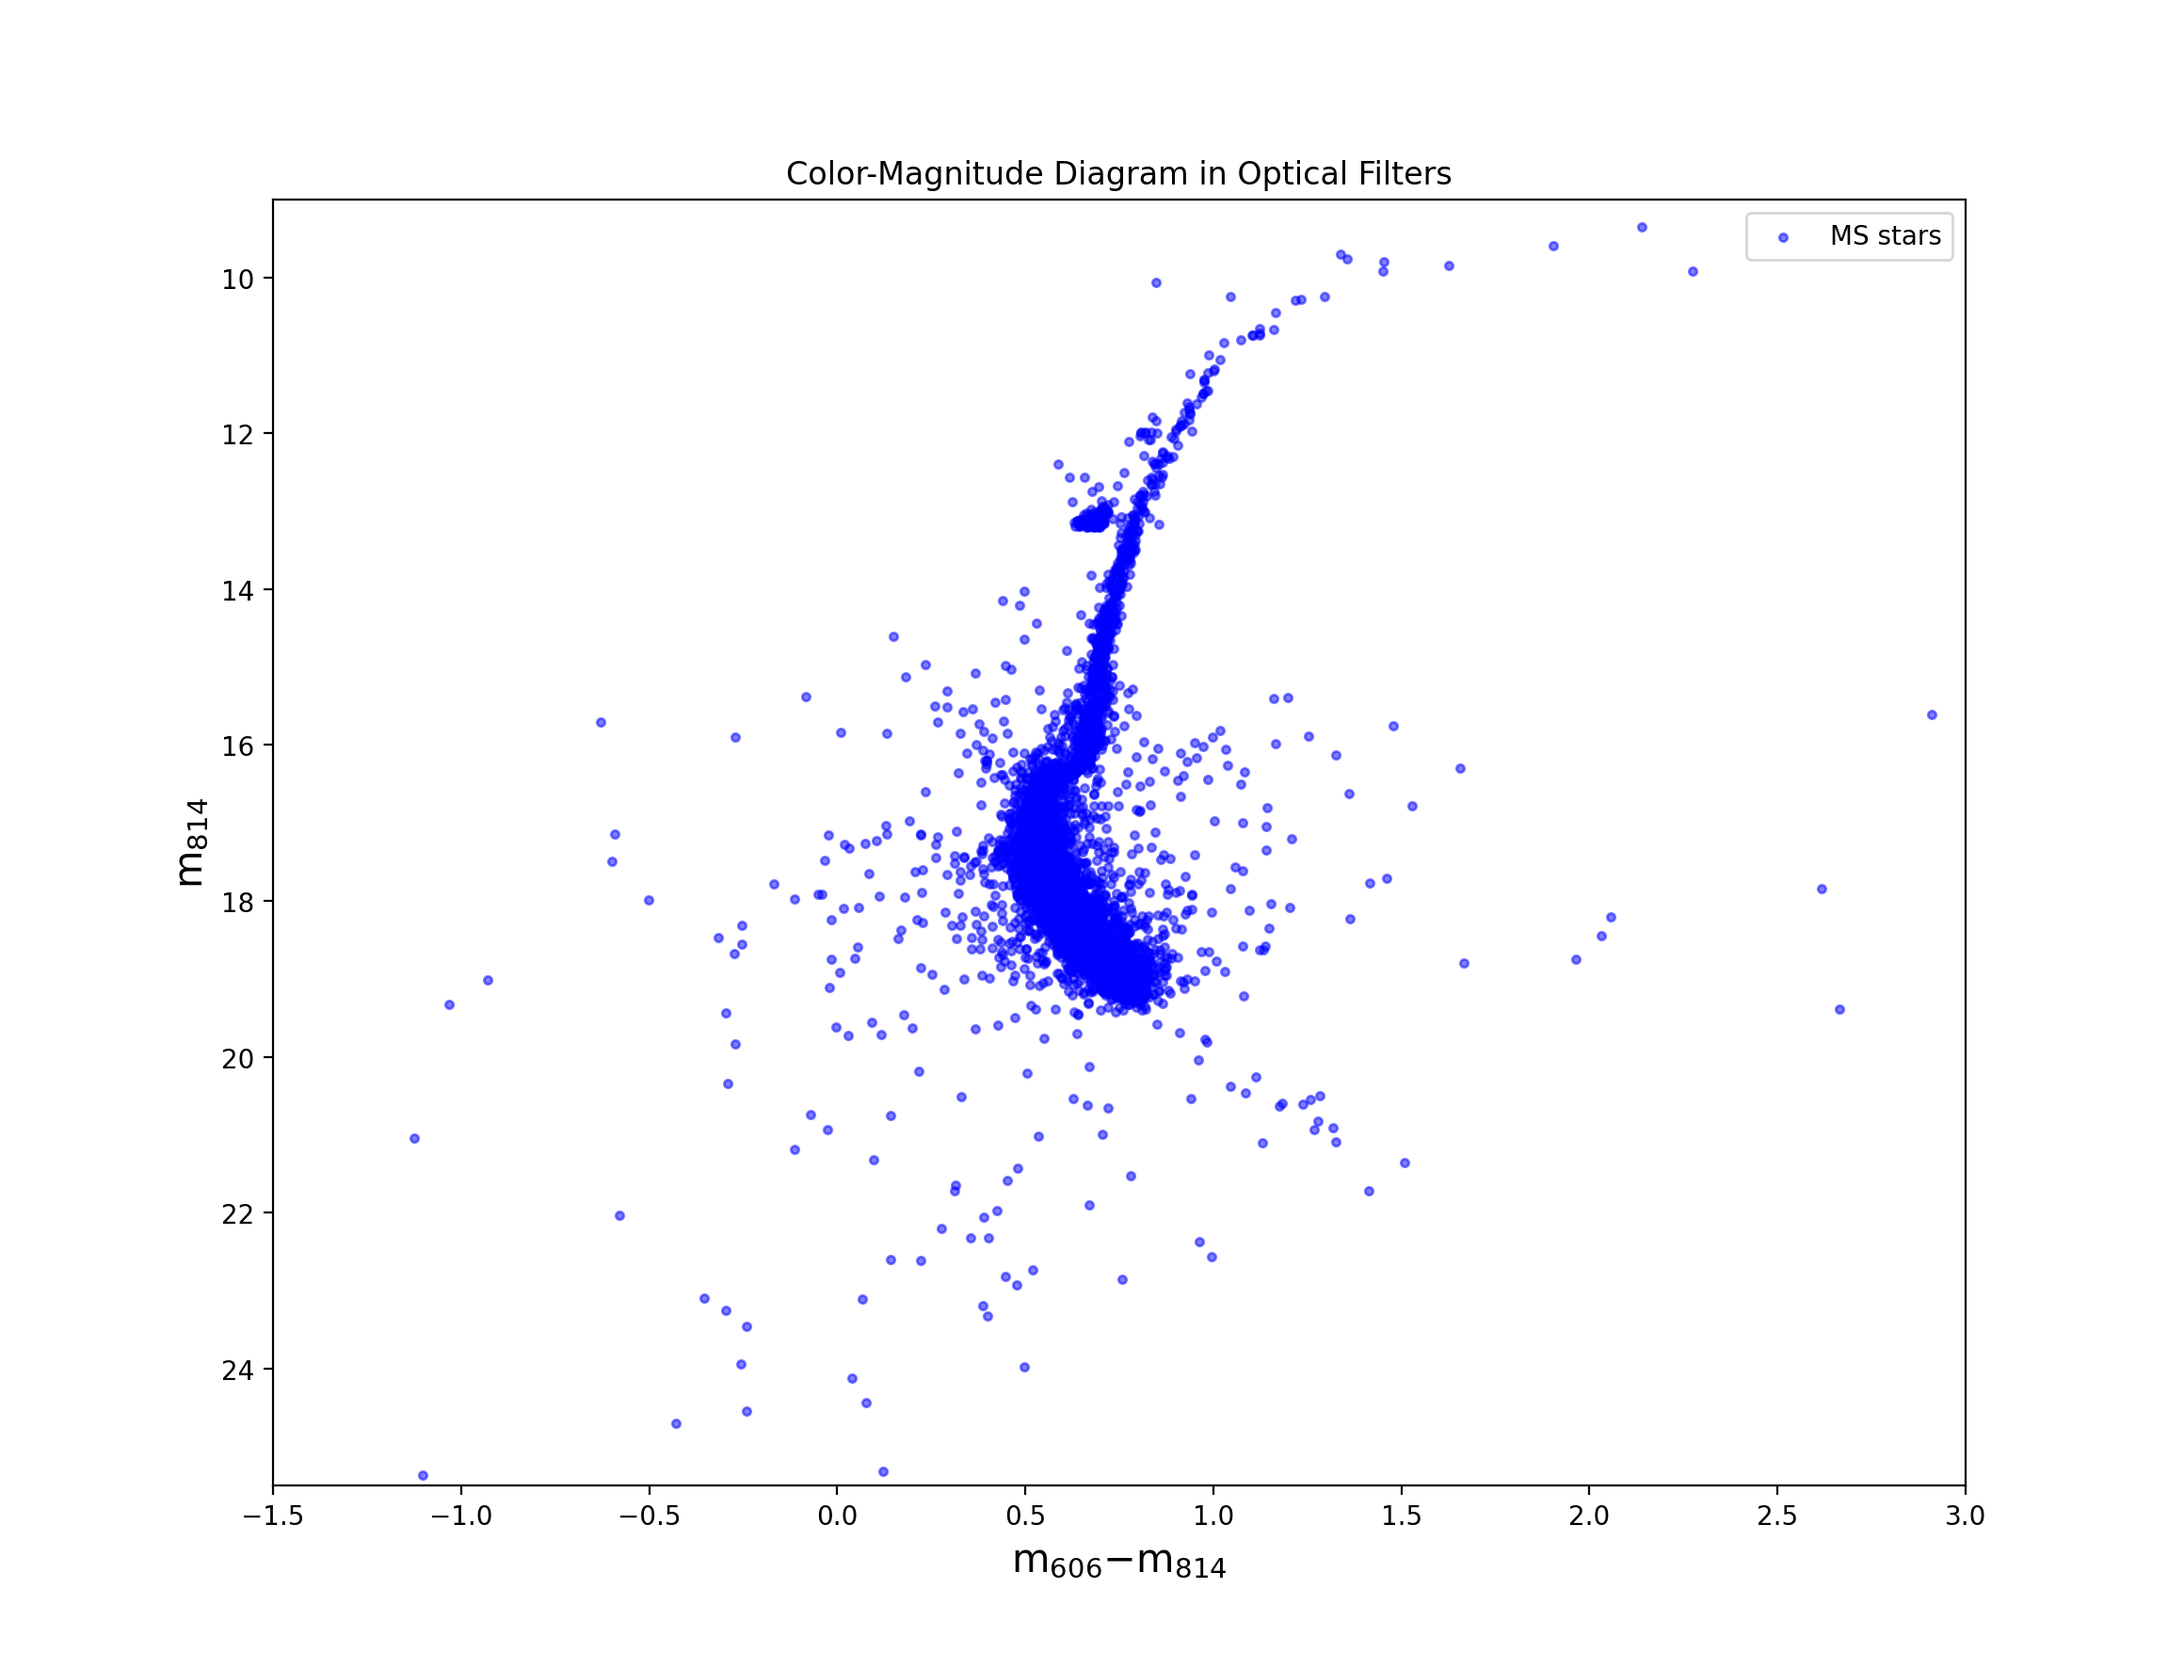
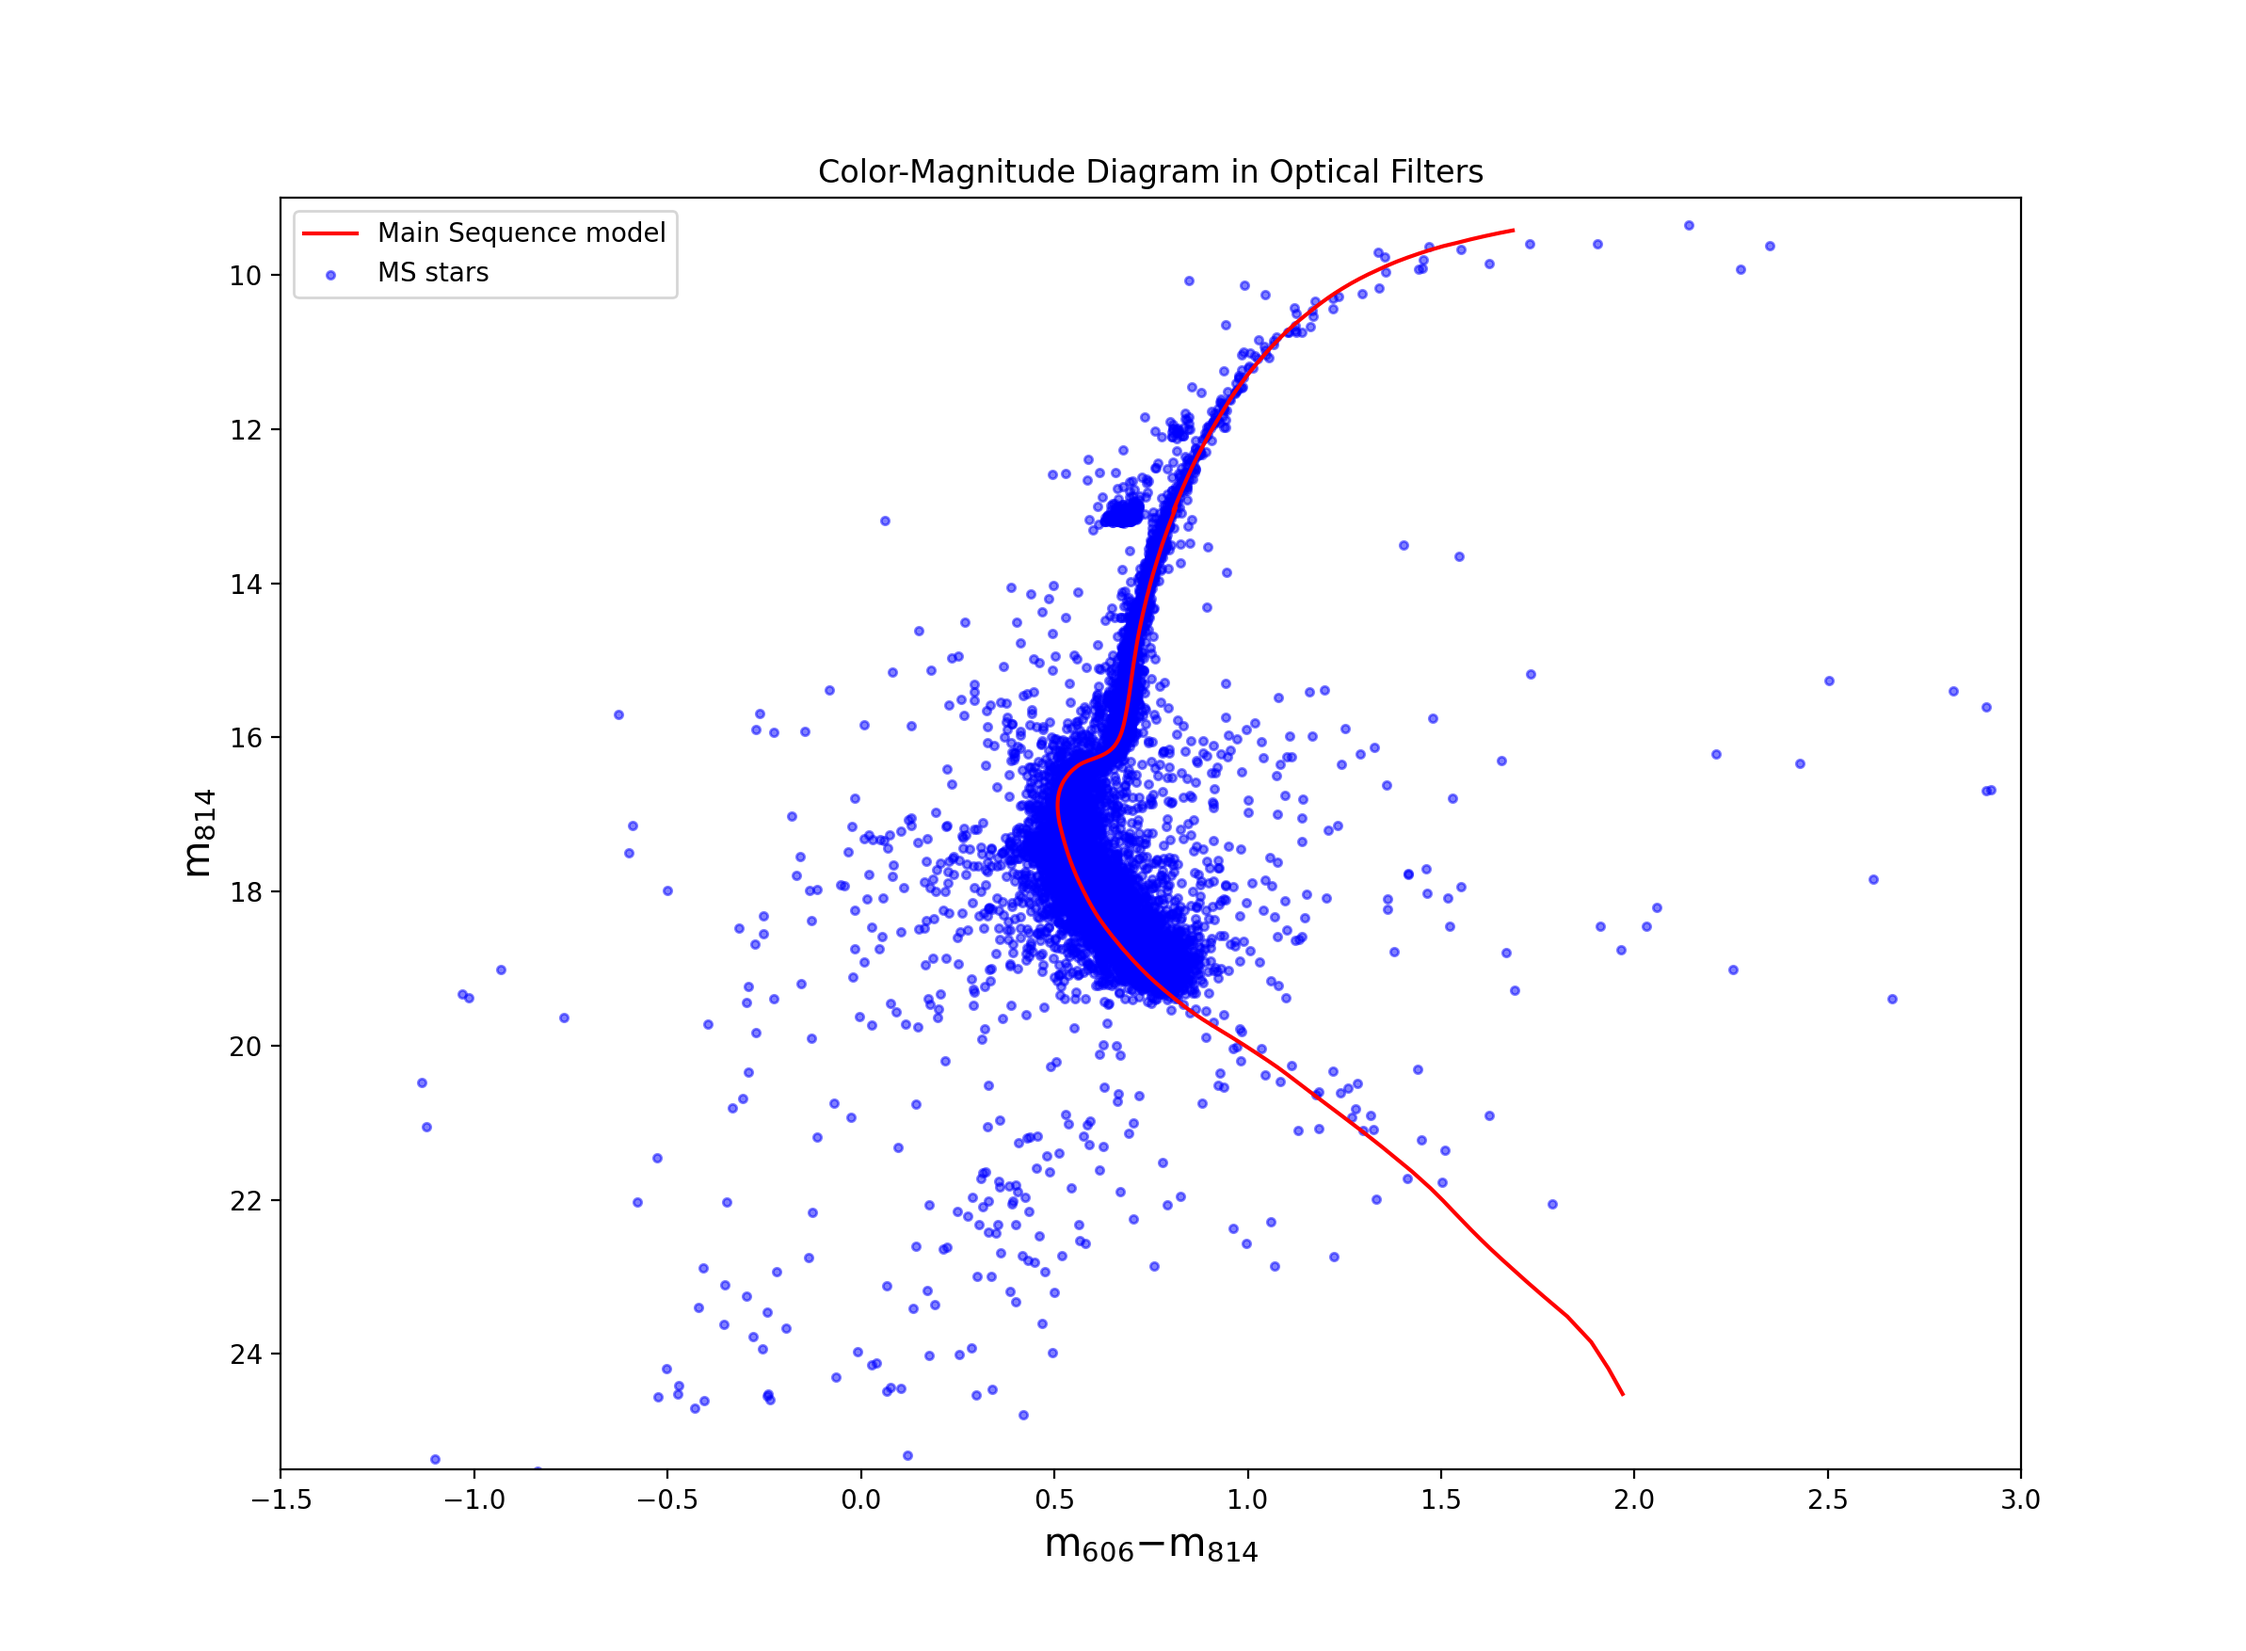
day 4

diff --git a/cap1_code.py b/cap1_code.py
@@ -130,15 +130,15 @@ def cmd275(filter1 = df1['data_275'], filter2 = df1['data_336'], filter1_b = df2
     plt.axis([-1, 4, 15.5, 25.75])
     plt.gca().invert_yaxis()
     plt.title('Color-Magnitude Diagram in UV Filters')
-    plt.xlabel('m${_{275}}$\N{MINUS SIGN}m${_{336}}$' , fontsize=20)
-    plt.ylabel('m${_{275}}$', fontsize=20)
+    plt.xlabel('m${_{275}}$\N{MINUS SIGN}m${_{336}}$' , fontsize=15)
+    plt.ylabel('m${_{275}}$', fontsize=15)
     plt.legend()
     plt.show()
 
 def cmd814(filter1 = df1['data_606'], filter2 = df1['data_814'], filter1_b = df2['data_606'], filter2_b = df2['data_814'], iso1 = iso_606, iso2 = iso_814):
     
     plt.clf()
-    #plt.scatter(filter1_b-filter2_b, filter2_b, color = 'grey', marker = '.', alpha = 0.5, label = 'Non-singular stars')
+    plt.scatter(filter1_b-filter2_b, filter2_b, color = 'b', marker = '.', alpha = 0.5)
     plt.scatter(filter1-filter2, filter2, color= 'b', marker = '.', alpha = 0.5, label = 'MS stars')
     plt.plot(iso1-iso2, iso2, color = 'r', label = 'Main Sequence model')
     plt.axis([-1.5, 3, 9, 25.5])
@@ -170,8 +170,8 @@ plt.clf()
 #cmd814(filter1 = ult_df['data_606'], filter2 = ult_df['data_814'])
 #binary_hist()
 #hist_prob()
-#cmd814()
-cmd275()
+cmd814()
+#cmd275()
 '''
 plt.hist(ms, bins = 100)
 plt.yscale('log')
